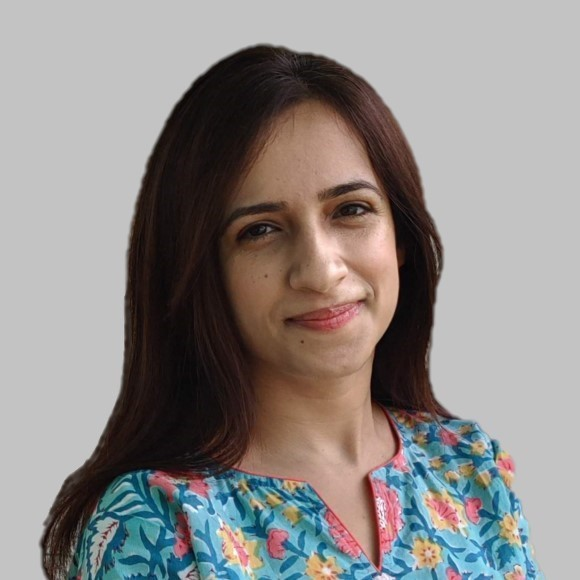
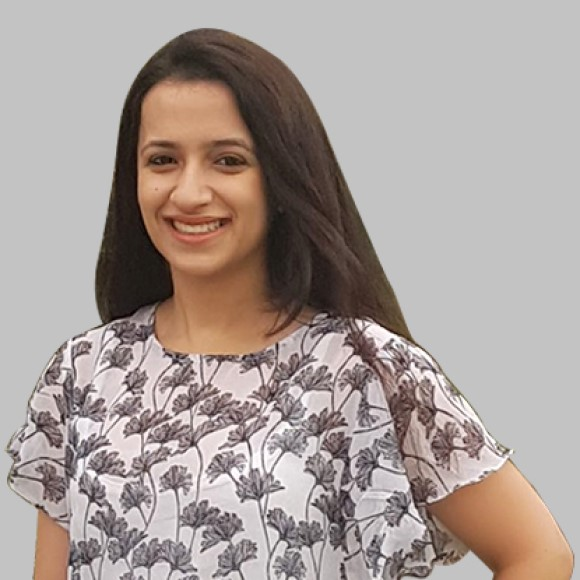
Added Amir and changed my pic

diff --git a/team.html b/team.html
@@ -231,6 +231,24 @@
                 <div class="team-block col-lg-6 col-md-6 col-sm-12">
                     <div class="inner-box">
                         <div class="image-box">
+                            <div class="image"><a href="team.html"><img src="images/resource/team5.jpg" alt=""></a></div>
+                            <ul class="social-links">
+                                <li><a href="#"><i class="fa fa-facebook"></i></a></li>
+                                <li><a href="#"><i class="fa fa-twitter"></i></a></li>
+                                <li><a href="#"><i class="fa fa-google-plus"></i></a></li>
+                                <li><a href="#"><i class="fa fa-instagram"></i></a></li>
+                                <li><a href="#"><i class="fa fa-whatsapp"></i></a></li>
+                            </ul>
+                            <h3 class="name"><a href="team.html">Amir Pishgahi</a></h3>
+                        </div>
+                        <span class="designation">VP-Construction Management</span>
+                    </div>
+                </div>
+
+                <!-- Team Block -->
+                <div class="team-block col-lg-6 col-md-6 col-sm-12">
+                    <div class="inner-box">
+                        <div class="image-box">
                             <div class="image"><a href="team.html"><img src="images/resource/team2a.jpg" alt=""></a></div>
                             <ul class="social-links">
                                 <li><a href="#"><i class="fa fa-facebook"></i></a></li>
@@ -249,24 +267,6 @@
                 <div class="team-block col-lg-6 col-md-6 col-sm-12">
                     <div class="inner-box">
                         <div class="image-box">
-                            <div class="image"><a href="team.html"><img src="images/resource/team3.jpg" alt=""></a></div>
-                            <ul class="social-links">
-                                <li><a href="#"><i class="fa fa-facebook"></i></a></li>
-                                <li><a href="#"><i class="fa fa-twitter"></i></a></li>
-                                <li><a href="#"><i class="fa fa-google-plus"></i></a></li>
-                                <li><a href="#"><i class="fa fa-instagram"></i></a></li>
-                                <li><a href="#"><i class="fa fa-whatsapp"></i></a></li>
-                            </ul>
-                            <h3 class="name"><a href="team.html">Pankaj Aggarwal</a></h3>
-                        </div>
-                        <span class="designation">Acquisition Analyst</span>
-                    </div>
-                </div>
-
-                <!-- Team Block -->
-                <div class="team-block col-lg-6 col-md-6 col-sm-12">
-                    <div class="inner-box">
-                        <div class="image-box">
                             <div class="image"><a href="team.html"><img src="images/resource/team4.jpg" alt=""></a></div>
                             <ul class="social-links">
                                 <li><a href="#"><i class="fa fa-facebook"></i></a></li>
@@ -278,6 +278,24 @@
                             <h3 class="name"><a href="team.html">Sonal Mahendru</a></h3>
                         </div>
                         <span class="designation">Technical Head</span>
+                    </div>
+                </div>
+
+                <!-- Team Block -->
+                <div class="team-block col-lg-6 col-md-6 col-sm-12">
+                    <div class="inner-box">
+                        <div class="image-box">
+                            <div class="image"><a href="team.html"><img src="images/resource/team3.jpg" alt=""></a></div>
+                            <ul class="social-links">
+                                <li><a href="#"><i class="fa fa-facebook"></i></a></li>
+                                <li><a href="#"><i class="fa fa-twitter"></i></a></li>
+                                <li><a href="#"><i class="fa fa-google-plus"></i></a></li>
+                                <li><a href="#"><i class="fa fa-instagram"></i></a></li>
+                                <li><a href="#"><i class="fa fa-whatsapp"></i></a></li>
+                            </ul>
+                            <h3 class="name"><a href="team.html">Pankaj Aggarwal</a></h3>
+                        </div>
+                        <span class="designation">Acquisition Analyst</span>
                     </div>
                 </div>
             </div>
